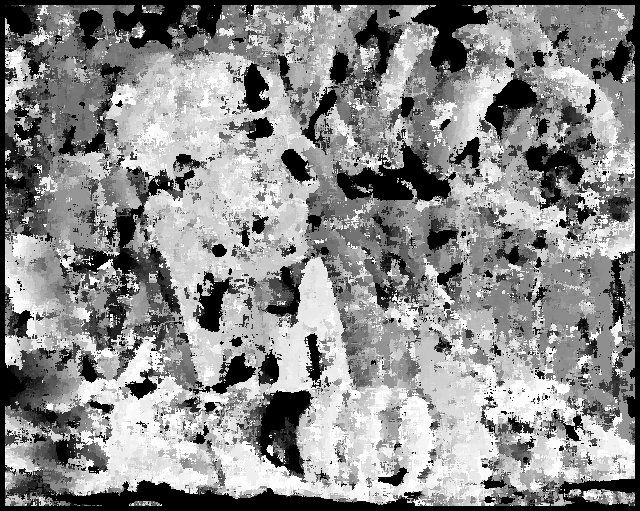
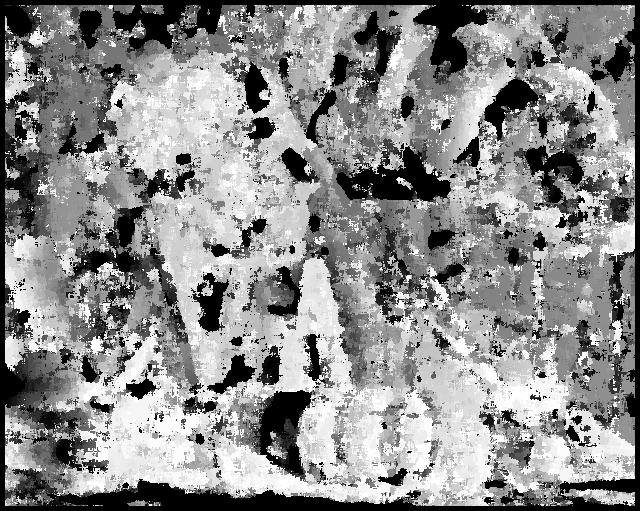
3B -- slightly better SSD disparity image with brightness increased 10%

diff --git a/ps2/ps2.py b/ps2/ps2.py
@@ -91,7 +91,7 @@ def main():
     cv2.imwrite("./output/ps2-2-a-1_scaled.png", scaledLR2)
     cv2.imwrite("./output/ps2-2-a-2_scaled.png", scaledRL2)
     '''
-    # Problem 3 -------------------------------------------------------
+    # Problem 3A -------------------------------------------------------
     # SSD with noise pertubations
 
     noise = np.uint8(np.random.normal(0, 1, L2.shape) * 10)
@@ -108,6 +108,20 @@ def main():
 
     cv2.imwrite("./output/ps2-3-a-1_scaled.png", scaledLR3)
     cv2.imwrite("./output/ps2-3-a-2_scaled.png", scaledRL3)
+
+    L3_bright = L2 * 1.1
+    R3_bright = R2 * 1.1
+
+    D_LR_3B = disparity_ssd(L3_bright, R3_bright)
+    D_RL_3B = disparity_ssd(R3_bright, L3_bright)
+
+    SCALE_FACTOR = 255 / np.max(np.abs(D_LR_3B))
+
+    scaledLR3B = np.abs(D_LR_3B) * SCALE_FACTOR
+    scaledRL3B = np.abs(D_RL_3B) * SCALE_FACTOR
+
+    cv2.imwrite("./output/ps2-3-b-1_scaled.png", scaledLR3B)
+    cv2.imwrite("./output/ps2-3-b-2_scaled.png", scaledRL3B)
 
 
 if __name__ == "__main__":
